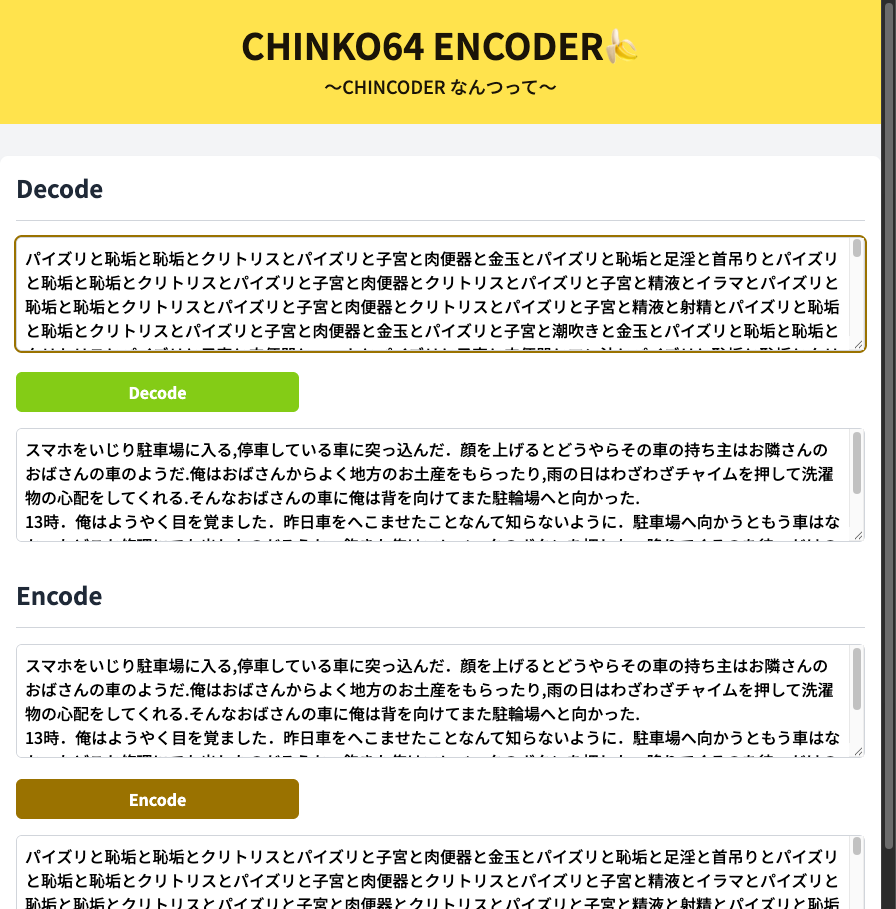
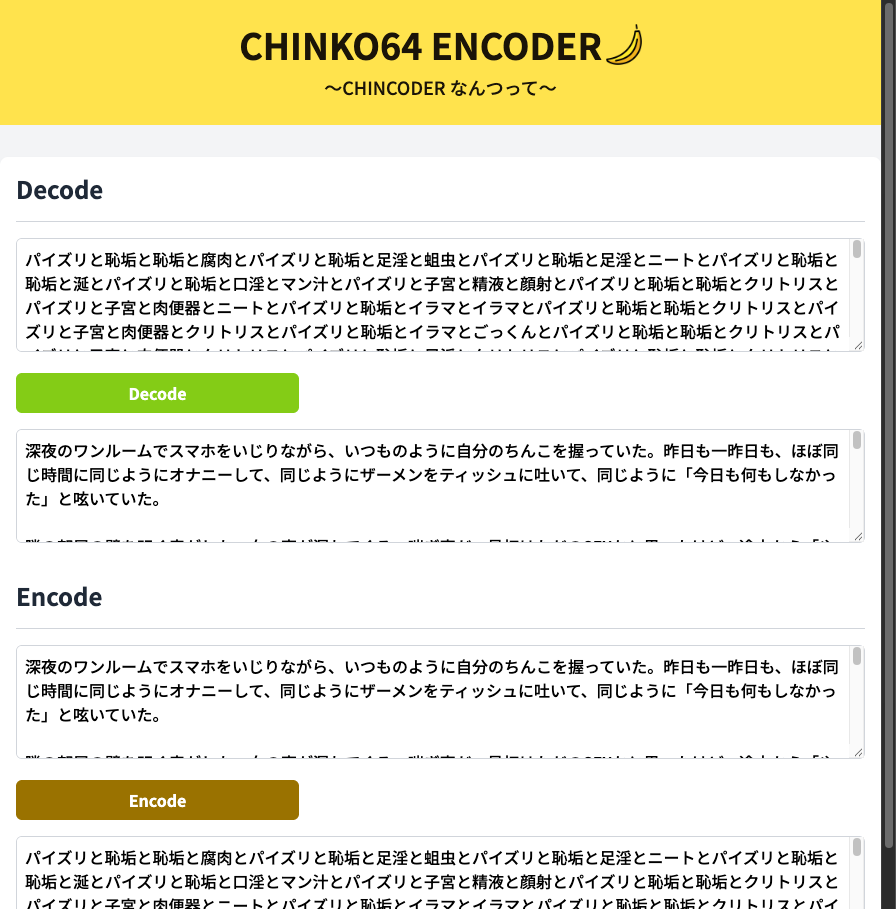
スクショをこのリポジトリの短編にし、バナナを太線付きにする
枠はフォーカスしない。絵文字は文字ではなく画像なので、見た目は OS に依存しない。

diff --git a/index.html b/index.html
@@ -28,13 +28,13 @@
 	</style>
 	<link rel="icon" type="image/png" href="./thumbnail.png">
 	<script src="./script.js"></script>
-	<title>CHINKO64 ENCODER🍌</title>
+	<title>CHINKO64 ENCODER</title>
 </head>
 
 <body class="bg-gray-100 leading-normal tracking-normal">
 	<div id="header" class="bg-[#ffe34d] text-[#1a1408] text-center py-6">
 		<div id="title" class="text-4xl font-bold">
-			CHINKO64 ENCODER🍌
+			CHINKO64 ENCODER<img src="./banana.png" alt="" class="inline-block align-[-0.15em] h-[1.15em] w-auto ml-1">
 		</div>
 		<p class="text-lg mt-2">～CHINCODER なんつって～</p>
 	</div>
